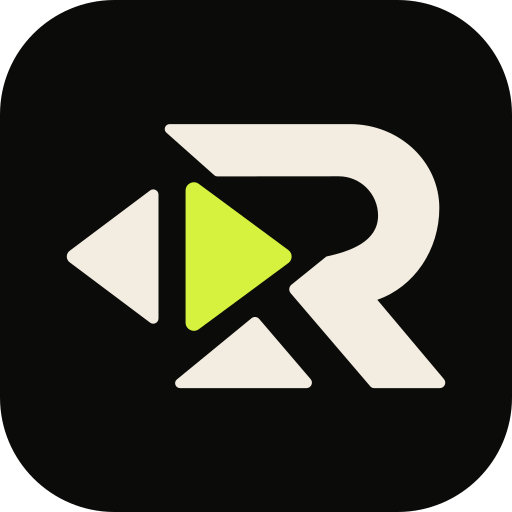
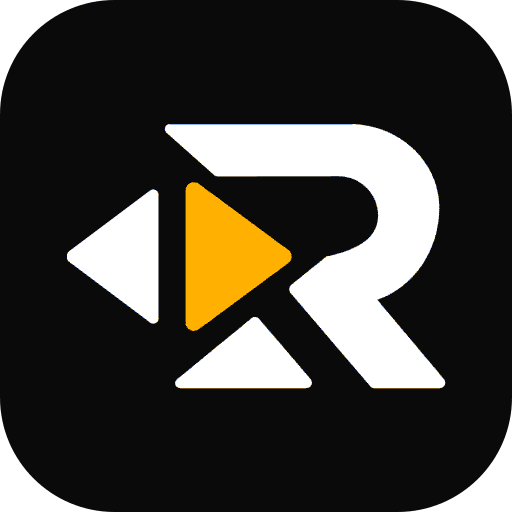
feat: apply the new amber brand palette (#6)

Changed region(s): [[0.3125, 0.2188, 0.875, 0.7812], [0.125, 0.375, 0.3125, 0.6562]]

diff --git a/src/styles/home.css b/src/styles/home.css
@@ -42,8 +42,8 @@
 /* ---------- Hero ---------- */
 .hero-glow {
   background:
-    radial-gradient(55% 45% at 72% 38%, rgb(214 242 63 / 0.16), transparent 70%),
-    radial-gradient(40% 40% at 8% 90%, rgb(95 125 11 / 0.18), transparent 70%);
+    radial-gradient(55% 45% at 72% 38%, rgb(255 176 0 / 0.16), transparent 70%),
+    radial-gradient(40% 40% at 8% 90%, rgb(148 98 0 / 0.18), transparent 70%);
 }
 
 .grain::after {
@@ -63,7 +63,7 @@
 }
 
 .hero-title .accent {
-  color: var(--color-lima);
+  color: var(--color-amber);
   display: inline-block;
   position: relative;
 }
@@ -75,11 +75,11 @@
   aspect-ratio: 9 / 19;
   padding: 0.5rem;
   border-radius: 2.9rem;
-  background: linear-gradient(160deg, #2c2f26, #12130e 60%);
+  background: linear-gradient(160deg, #2e2e2e, #0a0a0a 60%);
   border: 1px solid var(--color-line);
   box-shadow:
     0 50px 90px -30px rgb(0 0 0 / 0.9),
-    0 0 90px -30px rgb(214 242 63 / 0.25),
+    0 0 90px -30px rgb(255 176 0 / 0.25),
     inset 0 0 0 1px rgb(255 255 255 / 0.04);
 }
 
@@ -102,7 +102,7 @@
   height: 100%;
   overflow: hidden;
   border-radius: 2.45rem;
-  background: #0f100d;
+  background: #0a0a0a;
   container-type: size;
   isolation: isolate;
 }
@@ -138,7 +138,7 @@
   width: 100%;
   height: 100%;
   object-fit: cover;
-  background: #0f100d;
+  background: #0a0a0a;
 }
 
 /* ---------- Recording screen (9s loop) ---------- */
@@ -158,13 +158,13 @@
 .rec::before {
   top: 0;
   height: 38cqw;
-  background: linear-gradient(180deg, rgb(11 11 9 / 0.62), transparent);
+  background: linear-gradient(180deg, rgb(10 10 10 / 0.62), transparent);
 }
 
 .rec::after {
   bottom: 0;
   height: 52cqw;
-  background: linear-gradient(0deg, rgb(11 11 9 / 0.82), transparent);
+  background: linear-gradient(0deg, rgb(10 10 10 / 0.82), transparent);
 }
 
 .rec__top {
@@ -186,7 +186,7 @@
   gap: 2cqw;
   padding: 1.6cqw 3.2cqw;
   border-radius: 999px;
-  background: rgb(11 11 9 / 0.62);
+  background: rgb(10 10 10 / 0.62);
   backdrop-filter: blur(6px);
 }
 
@@ -226,7 +226,7 @@
   font-weight: 700;
   letter-spacing: 0.22em;
   text-transform: uppercase;
-  color: rgb(243 237 225 / 0.8);
+  color: rgb(255 255 255 / 0.8);
 }
 
 .rec__count-num {
@@ -269,7 +269,7 @@
   100% {
     opacity: 1;
     transform: none;
-    color: var(--color-lima);
+    color: var(--color-amber);
   }
 }
 
@@ -300,7 +300,7 @@
   height: 1.4cqw;
   overflow: hidden;
   border-radius: 999px;
-  background: rgb(243 237 225 / 0.22);
+  background: rgb(255 255 255 / 0.22);
 }
 
 @keyframes fill-bar {
@@ -316,13 +316,13 @@
   height: 100%;
   transform-origin: left;
   border-radius: 999px;
-  background: var(--color-lima);
+  background: var(--color-amber);
   animation: fill-bar 3.4s ease-out both;
 }
 
 .rec__hint {
   text-align: center;
-  color: rgb(243 237 225 / 0.9);
+  color: rgb(255 255 255 / 0.9);
 }
 
 @keyframes hint-blink {
@@ -363,8 +363,8 @@
   inset: 0;
   z-index: 4;
   pointer-events: none;
-  box-shadow: inset 0 0 0 1.6cqw var(--color-lima);
-  background: radial-gradient(70% 55% at 50% 50%, rgb(214 242 63 / 0.18), transparent 70%);
+  box-shadow: inset 0 0 0 1.6cqw var(--color-amber);
+  background: radial-gradient(70% 55% at 50% 50%, rgb(255 176 0 / 0.18), transparent 70%);
   animation: save-flash var(--loop) ease-out infinite;
 }
 
@@ -392,7 +392,7 @@
   inset: auto 6cqw 27cqw;
   padding: 3.6cqw 4.4cqw;
   border-radius: 4.4cqw;
-  background: var(--color-lima);
+  background: var(--color-amber);
   color: var(--color-ink);
   animation: toast-in var(--loop) cubic-bezier(0.2, 0.9, 0.3, 1) infinite;
 }
@@ -446,7 +446,7 @@
   position: absolute;
   width: 6cqw;
   height: 6cqw;
-  border: 0.9cqw solid var(--color-lima);
+  border: 0.9cqw solid var(--color-amber);
 }
 
 .edit__focus::before {
@@ -488,7 +488,7 @@
   display: grid;
   align-content: start;
   gap: 4.4cqw;
-  background: linear-gradient(180deg, #14150f, #0b0b09);
+  background: linear-gradient(180deg, #141414, #0a0a0a);
   border-top: 1px solid var(--color-line);
   font-size: 3.3cqw;
   font-weight: 700;
@@ -517,7 +517,7 @@
 }
 
 .edit__tool--on {
-  background: var(--color-lima);
+  background: var(--color-amber);
   color: var(--color-ink);
 }
 
@@ -526,7 +526,7 @@
   height: 11cqw;
   border-radius: 3cqw;
   background:
-    repeating-linear-gradient(90deg, rgb(243 237 225 / 0.1) 0 0.6cqw, transparent 0.6cqw 3cqw),
+    repeating-linear-gradient(90deg, rgb(255 255 255 / 0.1) 0 0.6cqw, transparent 0.6cqw 3cqw),
     var(--color-surface);
   overflow: hidden;
 }
@@ -549,9 +549,9 @@
 .edit__window {
   position: absolute;
   inset-block: 0;
-  border: 0.9cqw solid var(--color-lima);
+  border: 0.9cqw solid var(--color-amber);
   border-radius: 2.4cqw;
-  background: rgb(214 242 63 / 0.14);
+  background: rgb(255 176 0 / 0.14);
   animation: trim-window 5.5s ease-in-out infinite alternate;
 }
 
@@ -589,7 +589,7 @@
 }
 
 .edit__btn--primary {
-  background: var(--color-lima);
+  background: var(--color-amber);
   color: var(--color-ink);
   border-color: transparent;
 }
@@ -603,7 +603,7 @@
   padding: 1.1rem;
   border-radius: 1.25rem;
   border: 1px solid var(--color-line);
-  background: linear-gradient(160deg, rgb(27 29 24 / 0.9), rgb(11 11 9 / 0.9));
+  background: linear-gradient(160deg, rgb(20 20 20 / 0.9), rgb(10 10 10 / 0.9));
   transition:
     border-color 0.25s,
     transform 0.25s;
@@ -611,7 +611,7 @@
 
 .tile:hover,
 .tile:focus-within {
-  border-color: var(--color-lima);
+  border-color: var(--color-amber);
   transform: translateY(-4px);
 }
 
@@ -619,7 +619,7 @@
   width: 3.25rem;
   height: 3.25rem;
   flex-shrink: 0;
-  color: var(--color-lima);
+  color: var(--color-amber);
 }
 
 /* On phones the trigger cards lie down (icon beside the text) so six of them do not take a screen each. */
@@ -650,8 +650,8 @@
 }
 
 .tag--pro {
-  border-color: var(--color-lima);
-  color: var(--color-lima);
+  border-color: var(--color-amber);
+  color: var(--color-amber);
 }
 
 /* Testimonials: a big opening quote mark and a round avatar (a generic silhouette until the real photo is added). */
@@ -661,7 +661,7 @@
   font-weight: 800;
   line-height: 0.6;
   height: 1.75rem;
-  color: var(--color-lima);
+  color: var(--color-amber);
 }
 
 .avatar {
@@ -672,7 +672,7 @@
   place-items: end center;
   overflow: hidden;
   border-radius: 999px;
-  border: 2px solid var(--color-lima);
+  border: 2px solid var(--color-amber);
   background: var(--color-surface);
   color: var(--color-muted);
 }
@@ -780,7 +780,7 @@
   line-height: 0.85;
   font-size: clamp(3rem, 8vw, 6rem);
   color: transparent;
-  -webkit-text-stroke: 1.5px var(--color-lima);
+  -webkit-text-stroke: 1.5px var(--color-amber);
 }
 
 /* ---------- Privacy ring ---------- */
@@ -816,7 +816,7 @@
 }
 
 .tick--keep {
-  stroke: var(--color-lima);
+  stroke: var(--color-amber);
   stroke-width: 4;
   animation: keep-pulse 2.4s ease-in-out infinite;
   animation-delay: 0s;
@@ -860,7 +860,7 @@
 }
 
 .sport-slide:hover {
-  border-color: var(--color-lima);
+  border-color: var(--color-amber);
 }
 
 .sport-slide__img {
@@ -875,9 +875,9 @@
 
 .sport-slide--any {
   background:
-    radial-gradient(90% 60% at 80% 0%, rgb(214 242 63 / 0.28), transparent 70%),
-    linear-gradient(160deg, #1b1d18, #0b0b09);
-  border-color: rgb(214 242 63 / 0.5);
+    radial-gradient(90% 60% at 80% 0%, rgb(255 176 0 / 0.28), transparent 70%),
+    linear-gradient(160deg, #141414, #0a0a0a);
+  border-color: rgb(255 176 0 / 0.5);
 }
 
 .carousel-btn {
@@ -895,8 +895,8 @@
 }
 
 .carousel-btn:hover:not(:disabled) {
-  border-color: var(--color-lima);
-  color: var(--color-lima);
+  border-color: var(--color-amber);
+  color: var(--color-amber);
 }
 
 .carousel-btn:disabled {
@@ -917,7 +917,7 @@
   left: 0;
   width: 30%;
   border-radius: 999px;
-  background: var(--color-lima);
+  background: var(--color-amber);
 }
 
 /* ---------- Sticky mobile CTA ---------- */
@@ -926,7 +926,7 @@
   inset: auto 0 0;
   z-index: 30;
   padding: 0.75rem 1rem calc(0.75rem + env(safe-area-inset-bottom));
-  background: linear-gradient(180deg, transparent, rgb(11 11 9 / 0.92) 38%);
+  background: linear-gradient(180deg, transparent, rgb(10 10 10 / 0.92) 38%);
   backdrop-filter: blur(8px);
 }
 

diff --git a/src/styles/global.css b/src/styles/global.css
@@ -1,15 +1,15 @@
 @import "tailwindcss";
 
-/* Brand kit: repplay/docs/brand/repplay (cores.css, guia-de-marca). Lima never goes on light backgrounds. */
+/* Brand kit palette: Ink, White and Amber as the only accent. Amber never goes on light backgrounds; Dark amber is its light-background version. */
 @theme {
-  --color-ink: #0b0b09;
-  --color-paper: #f3ede1;
-  --color-lima: #d6f23f;
-  --color-oliva: #5f7d0b;
-  --color-surface: #1b1d18;
-  --color-line: #3a3d34;
-  --color-muted: #a9a79c;
-  --color-rec: #ff5a36;
+  --color-ink: #0a0a0a;
+  --color-paper: #ffffff;
+  --color-amber: #ffb000;
+  --color-amber-dark: #946200;
+  --color-surface: #141414;
+  --color-line: #2e2e2e;
+  --color-muted: #b3b3b3;
+  --color-rec: #ff453a;
 }
 
 @theme inline {
@@ -37,12 +37,12 @@
   }
 
   ::selection {
-    background-color: var(--color-lima);
+    background-color: var(--color-amber);
     color: var(--color-ink);
   }
 
   :focus-visible {
-    outline: 2px solid var(--color-lima);
+    outline: 2px solid var(--color-amber);
     outline-offset: 3px;
   }
 
@@ -101,11 +101,11 @@
 }
 
 .legal li::marker {
-  color: var(--color-lima);
+  color: var(--color-amber);
 }
 
 .legal a {
-  @apply text-lima underline underline-offset-4;
+  @apply text-amber underline underline-offset-4;
 }
 
 .legal strong {
@@ -126,7 +126,7 @@
 }
 
 .legal blockquote {
-  @apply border-lima bg-surface my-6 rounded-r-lg border-l-4 px-5 py-3;
+  @apply border-amber bg-surface my-6 rounded-r-lg border-l-4 px-5 py-3;
 }
 
 .legal blockquote p {

diff --git a/README.md b/README.md
@@ -24,12 +24,12 @@ pnpm preview   # serve a pasta dist
 | `src/components` | `HomePage`, `LegalPage` e peças de layout. |
 | `src/content/legal` | Textos de Privacidade e Termos em markdown, por idioma (`pt-br`, `en`). |
 | `src/i18n/ui.ts` | Textos da interface nos dois idiomas. |
-| `src/styles/global.css` | Tokens da marca (Ink, Paper, Lima, Oliva) e estilo dos textos legais. |
+| `src/styles/global.css` | Tokens da marca (Ink, Paper, Amber, Dark amber) e estilo dos textos legais. |
 | `public` | Favicons, manifest, logos e imagem OG copiados do kit de marca. |
 
 ## Marca
 
-Os arquivos vêm de `docs/brand/repplay` no repositório `repplay`. O Lima é `#D6F23F` e nunca vai sobre fundo claro.
+Os arquivos vêm de `docs/brand/repplay` no repositório `repplay`. O Âmbar é `#FFB000` e nunca vai sobre fundo claro; nele entra o Âmbar escuro (`#946200`). Paleta em Ink `#0A0A0A`, Branco `#FFFFFF`, Âmbar e Âmbar escuro.
 
 ## Links das lojas
 
